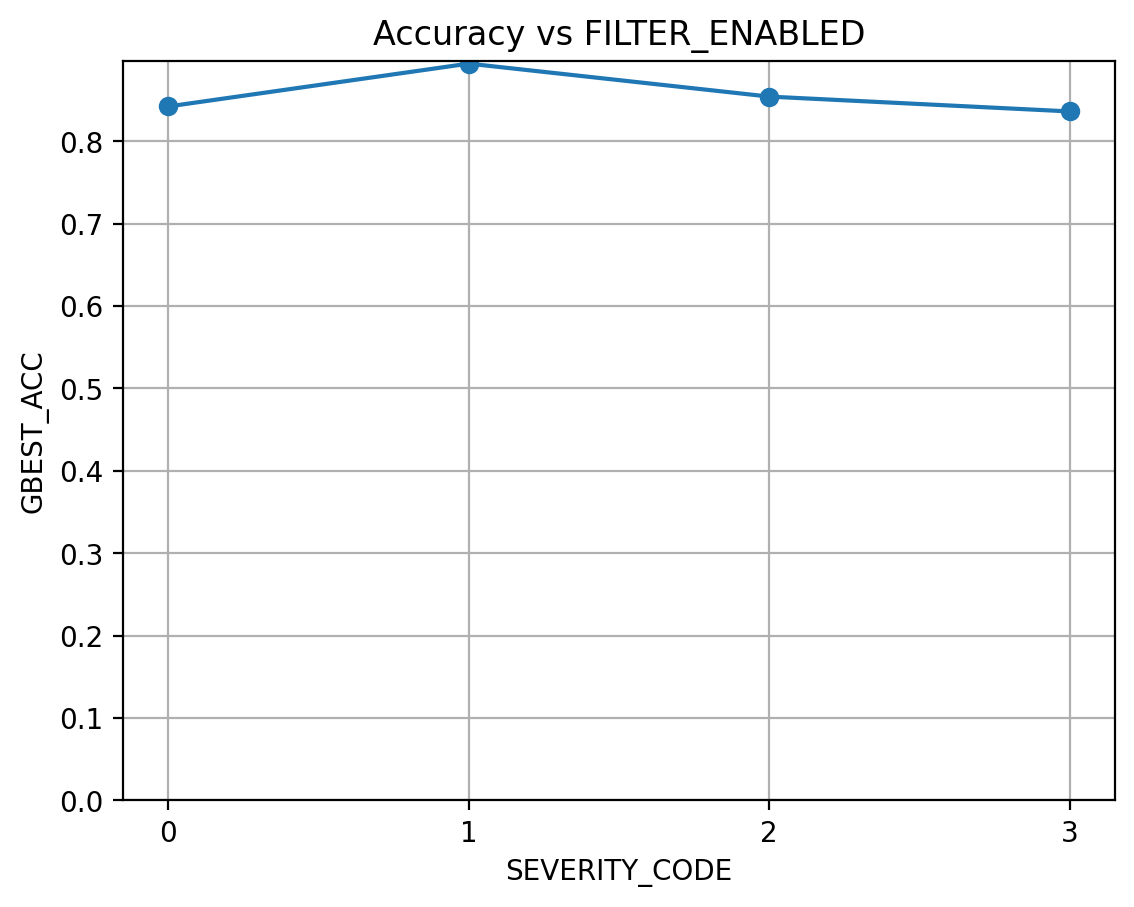
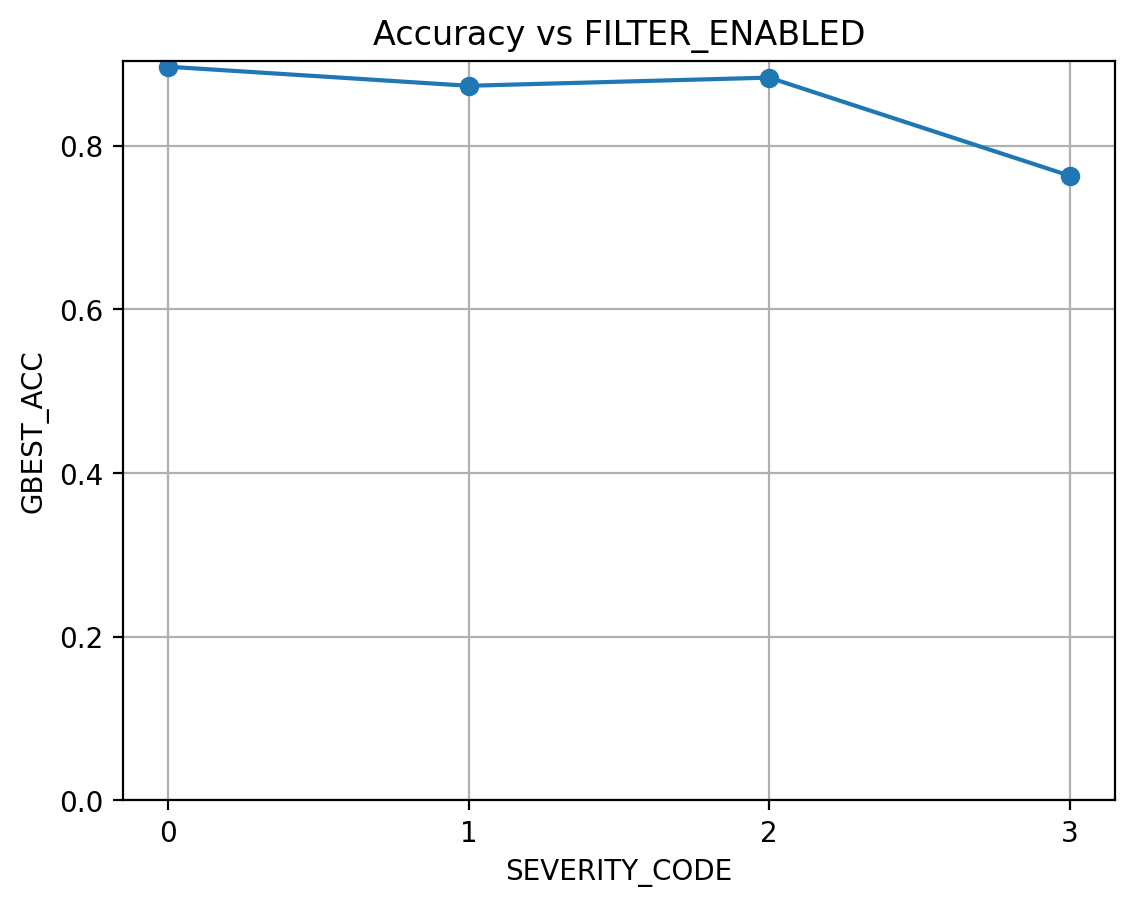
fdfd

diff --git a/java/src/main/java/experimentation/Experimentation.java b/java/src/main/java/experimentation/Experimentation.java
@@ -28,7 +28,8 @@ public class Experimentation {
                     "GBEST_ACC,GBEST_LOSS," + 
                     "TOTAL_MESSAGES_SENT,TOTAL_MESSAGES_SENT_PBEST,TOTAL_MESSAGES_SENT_CURRENT_WEIGHTS," + 
                     "TOTAL_BYTES_SENT,LOSS_THRESHOLD_DIFF,LOSS_THRESHOLD_MIN,LOSS_THRESHOLD_MAX," +
-                    "PBEST_DEBOUNCE_MS,MONITORING_THRESHOLD_MIN,MONITORING_THRESHOLD_MAX\n";
+                    "PBEST_DEBOUNCE_MS,MONITORING_THRESHOLD_MIN,MONITORING_THRESHOLD_MAX," +
+                    "INDEPENDENT_DATA_PROCESSING\n";
 
     // ========================================================================
 
@@ -60,12 +61,18 @@ public class Experimentation {
         cfg.LOSS_THRESHOLD_MIN = 0.005f;
         LOSS_THRESHOLD_MIN_ORIGINAL = cfg.LOSS_THRESHOLD_MIN;
         LOSS_THRESHOLD_MAX_ORIGINAL = cfg.LOSS_THRESHOLD_MAX;
-        
+
+        cfg.EARLY_STOPPING = false; // this is detrimental to experimentation, especially in the time diagrams:
+            // N_WORKERS => on low N_WORKERS, workers exit sooner than expected, because they have pretty bad performances
+                // EARLY STOPPING kicks in
+            // SEVERITY => Easier filters reach EARLY_STOPPING requiring less time, when Harder filters require more 
+                // time to reach good accuracy but they are contantly improving but slowly, so no EARLY_STOPPING
+    
         // ===========================================================================================================================================
         // ===========================================================================================================================================
 
         if(cfg.EXPERIMENTATION_MODE.equals("N_WORKERS")) {
-            
+                
             // Path csvPath = createUniqueCsvPath(cfg.EXPERIMENTATION_DIR, "results");
             Path dir = Path.of(cfg.EXPERIMENTATION_DIR);
             Files.createDirectories(dir);
@@ -273,7 +280,7 @@ public class Experimentation {
         // ===========================================================================================================================================
 
         } else if(cfg.EXPERIMENTATION_MODE.equals("MONITORING_ITERATIONS")) {
-            
+            cfg.EARLY_STOPPING = true;  // probably a good idea
             Path dir = Path.of(cfg.EXPERIMENTATION_DIR);
             Files.createDirectories(dir);
             Path csvPath = dir.resolve("results_monitoring_iterations.csv");
@@ -488,7 +495,7 @@ public class Experimentation {
         try{     
 
             w.write(String.format(
-                "%d,%d,%.3f,%.3f,%.3f,%.6f,%.6f,%d,%d,%d,%d,%.6f,%.6f,%.6f,%d,%d,%d\n",
+                "%d,%d,%.3f,%.3f,%.3f,%.6f,%.6f,%d,%d,%d,%d,%.6f,%.6f,%.6f,%d,%d,%d,%b\n",
                 filterEnabled,
                 nWorkers,
                 // r.getTotalElapsedSec(),
@@ -506,8 +513,8 @@ public class Experimentation {
                 (double) cfg.LOSS_THRESHOLD_MAX,
                 cfg.PBEST_DEBOUNCE_MS,
                 cfg.MONITORING_THRESHOLD_MIN,
-                cfg.MONITORING_THRESHOLD_MAX
-
+                cfg.MONITORING_THRESHOLD_MAX,
+                cfg.INDEPENDENT_DATA_PROCESSING
             ));
 
         } catch(Exception e) {

diff --git a/java/src/main/java/dl4j_models/Dl4jModelFactory.java b/java/src/main/java/dl4j_models/Dl4jModelFactory.java
@@ -149,11 +149,12 @@ public class Dl4jModelFactory {
 			
 			if(cfg.USING_PRETRAINED_MODEL) {
 				
-				int version = 2;
+				int version = 11;
 
 				String filename;
 				switch (version) {
 					case 1 -> filename = "../python/pretrained_model/mnist_base_plus_head_v1.h5";	
+						// best, 99%
 					// case 1 -> filename = "../python/pretrained_model/fmnist_base_plus_head_v1.h5";		// NO FREEZE 69%, FULL freeze 67%, 71% Partial Freeze
 					case 2 -> filename = "../python/pretrained_model/mnist_base_plus_head_v2.h5";
 						// 0.83

diff --git a/docs/PSO_tasks_doc.md b/docs/PSO_tasks_doc.md
@@ -117,8 +117,6 @@
 	# ========================================================================================
 
 	64) More Transfer Learning Experimentation:
-		1)
-		- mnist (GD) -> fashion mnist (PSO) 
 		2)
 		"Self Transfer Learning":
 		- Not transfer learning (by definition means transfering from task 1 to task 2)
@@ -130,7 +128,6 @@
 			- Ειδικο scenario transfer learning
 
 		- Αρα δοκιμαζεις:
-			- NSFW
 			- CIFAR5 <--> CIFAR10 και CIFAR10 <--> CIFAR10 
 			- New Image Dataset of difficulty between MNIST and Cifar10
 
@@ -165,13 +162,7 @@
 		
 	# ========================================================================================
 
-	60) Write dimplomatiki:
-
-		- In Datasets section we need to show the datasets in increasing difficulty order.
-			- 1) Iris (Highly seperable / Easy dataset, Low Samples, Low Number of Classes)
-			- 2) Winequality (Highly seperable / Easy dataset, High Samples, Low Number of Classes) => How do we scale with higher amount of samples
-			- 3) Pendigits (Highly seperable / Easy dataset, High Samples, High Number of Classes) => How do we scale with higher amount of number of classes
-			- 4) MNIST (More complicated / Image dataset, High Samples, High Number of Classes) => How do we scale with more complex dataset ?
+	60) Write dimplomatiki
 
 	## =======================================================================================
 
@@ -186,7 +177,7 @@
 	## =======================================================================================
 
 	69) Prediction Models:
-		Θα υλοποιησεις το Linear Growth και θα δεις αυξηση στο communication και θα πεις static ειναι καλυτερο
+		- Θα υλοποιησεις το Linear Growth και θα δεις αυξηση στο communication και θα πεις static ειναι καλυτερο
 		
 ## =======================================================================================
 
